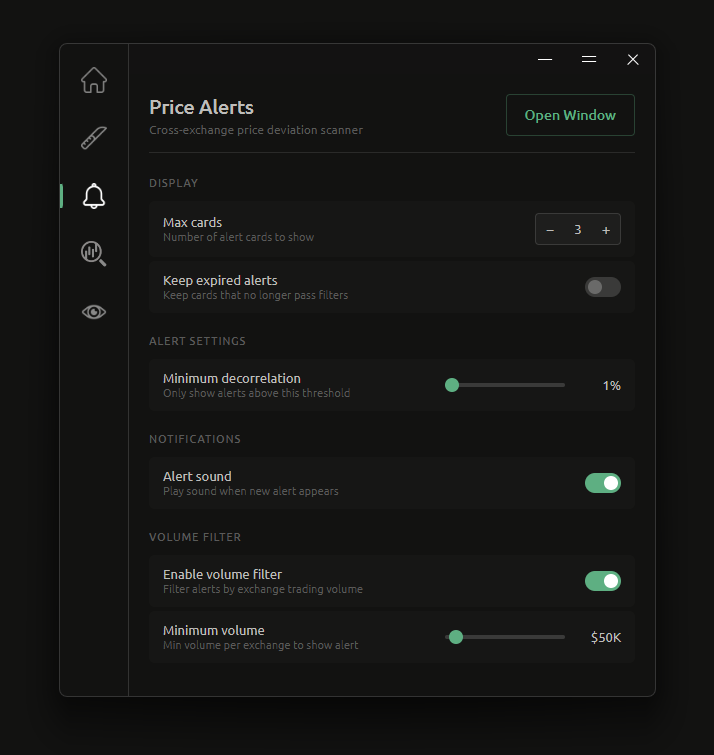
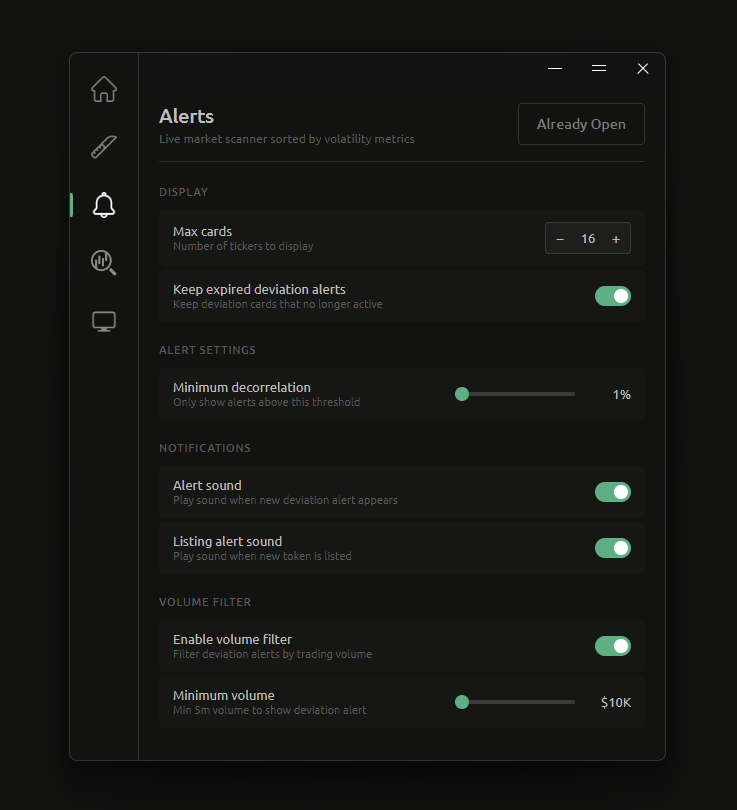
update

diff --git a/docs/index.html b/docs/index.html
@@ -428,6 +428,13 @@
             </div>
           </div>
           <div class="feature-row">
+            <span class="feature-row-icon" style="color:var(--amber);"><svg viewBox="0 0 24 24" fill="none" stroke="currentColor" stroke-width="2" stroke-linecap="round" stroke-linejoin="round"><path d="M22 19a2 2 0 01-2 2H4a2 2 0 01-2-2V5a2 2 0 012-2h5l2 3h9a2 2 0 012 2z"/></svg></span>
+            <div class="feature-row-content">
+              <div class="feature-row-title">Live listing alerts</div>
+              <div class="feature-row-desc">Get notified when newly listed tokens start trading on monitored exchanges. Never miss fresh opportunities.</div>
+            </div>
+          </div>
+          <div class="feature-row">
             <span class="feature-row-icon" style="color:var(--amber);"><svg viewBox="0 0 24 24" fill="none" stroke="currentColor" stroke-width="2" stroke-linecap="round" stroke-linejoin="round"><line x1="4" y1="21" x2="4" y2="14"/><line x1="4" y1="10" x2="4" y2="3"/><line x1="12" y1="21" x2="12" y2="12"/><line x1="12" y1="8" x2="12" y2="3"/><line x1="20" y1="21" x2="20" y2="16"/><line x1="20" y1="12" x2="20" y2="3"/><line x1="1" y1="14" x2="7" y2="14"/><line x1="9" y1="8" x2="15" y2="8"/><line x1="17" y1="16" x2="23" y2="16"/></svg></span>
             <div class="feature-row-content">
               <div class="feature-row-title">Minimum deviation threshold</div>
@@ -439,13 +446,6 @@
             <div class="feature-row-content">
               <div class="feature-row-title">Volume filtering</div>
               <div class="feature-row-desc">Filter out low-liquidity alerts by setting a minimum trading volume per exchange. Toggle on or off without losing your setting. Volume calculated for 5m timeframe</div>
-            </div>
-          </div>
-          <div class="feature-row">
-            <span class="feature-row-icon" style="color:var(--amber);"><svg viewBox="0 0 24 24" fill="none" stroke="currentColor" stroke-width="2" stroke-linecap="round" stroke-linejoin="round"><path d="M22 19a2 2 0 01-2 2H4a2 2 0 01-2-2V5a2 2 0 012-2h5l2 3h9a2 2 0 012 2z"/></svg></span>
-            <div class="feature-row-content">
-              <div class="feature-row-title">Keep expired alerts</div>
-              <div class="feature-row-desc">Choose whether cards that no longer pass filters stay visible or disappear automatically. Useful for reviewing recent opportunities.</div>
             </div>
           </div>
           <div class="feature-row">